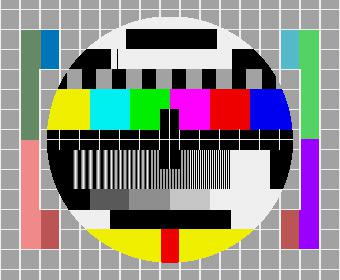
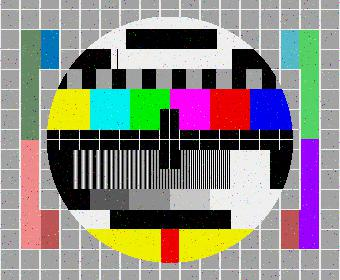
channel refactor and bug fixing

diff --git a/Message.py b/Message.py
@@ -5,7 +5,9 @@ import komm as komm
 test_image_file_name = "test_image.jpeg"
 saved_test_image = "save_image.jpeg"
 
+
 class Image_message:
+
     def __init__(self,file_name):
         """Load data from file and get size and pixel data (as 'image_bits')
         """
@@ -32,7 +34,7 @@ class Image_message:
         bits = np.array((self.image_bits))
         trippled_binary_image_bits = np.repeat(bits, 3)
         return trippled_binary_image_bits
-    
+    #TODO: Statystyki Potrajanie bitów metodą AAABBBCCC - zakodowana potrojona wiadomość 
 
     def bits_trippling_2(self):
         """Function which return trippled bits in order abcabcabc
@@ -40,7 +42,7 @@ class Image_message:
         bits = np.array((self.image_bits))
         trippled_bits = np.append(bits,[bits,bits])
         return trippled_bits
-
+    #TODO: Statystyki Potrajanie bitów metodą ABCABCABC - zakodowana potrojona wiadomość 
 
     def decode_trippled_bits(self, trippled_binary_array,order_char):
             """Function that decodes trippled bits
@@ -60,6 +62,7 @@ class Image_message:
                 else:
                     decoded_binary_image_bits[i] = third[i]
             return decoded_binary_image_bits
+     #TODO: Statystyki Potrajanie bitów metodą ABCABCABC i AAABBBCCC - w zaleności od parametru order stosowana jest dla danej metody, zwraca odkodowny ciąg bitów (dla AAABBBCCC order_char jest F, dla ABCABCABC order_char jest C)
 
     def calculate_zeros_addition_Hamming(self,parameter):
         bits = np.array(self.image_bits)
@@ -99,6 +102,7 @@ class Image_message:
             encoded_parts = np.array(encoded_parts)
 
             return encoded_parts
+    #TODO: Statystyki Hamming - zwraca wiadomość z nadmiarem informacyjnym i posiada dodatkowe zera na końcu (gdy długość nie jest podzelna przez długość potrzebną do zakodowania) 
 
         elif (len(bits)%code.dimension == 0):
             number_of_arrays = int(len(bits)/code.dimension)
@@ -111,7 +115,7 @@ class Image_message:
             encoded_parts = np.array(encoded_parts)
 
             return encoded_parts
-
+    #TODO: Statystyki Hamming - zwraca wiadomość z nadmiarem informacyjnym (bez dodatkowych zer bo iwadomość jest podzielna przez długość potrzebną do zakodowania)
 
     def hamming_decode(self,encoded_parts,parameter):
             """Decoding method for Hamming code
@@ -129,6 +133,7 @@ class Image_message:
                     decoded_parts = np.delete(decoded_parts,len(decoded_parts)-1)
             
             return decoded_parts
+        #TODO: Statystyki Hamming- odkodowana wiadomość i usunięte dodatkowe zera 
 
     def BCH_encode(self,parameter,correcting_capability):
         """ BCH code encoding method 
@@ -151,6 +156,7 @@ class Image_message:
             encoded_parts = np.array(encoded_parts)
 
             return encoded_parts
+        #TODO: Statystyki BCH - zwraca wiadomość z nadmiarem informacyjnym i posiada dodatkowe zera na końcu (gdy długość nie jest podzelna przez długość potrzebną do zakodowania) 
 
         elif (len(bits)%code.dimension == 0):
             number_of_arrays = int(len(bits)/code.dimension)
@@ -163,7 +169,8 @@ class Image_message:
             encoded_parts = np.array(encoded_parts)
 
             return encoded_parts
-    
+        #TODO: Statystyki BCH - zwraca wiadomość z nadmiarem informacyjnym (bez dodatkowych zer bo iwadomość jest podzielna przez długość potrzebną do zakodowania)
+
     def BCH_decode(self,encoded_parts,parameter,correcting_capability):
             """Decoding method for cyclic BCH code
             """
@@ -181,6 +188,8 @@ class Image_message:
             
             return decoded_parts
 
+        #TODO: Statystyki BCH- odkodowana wiadomość i usunięte dodatkowe zera 
+    
     def ParityCheck_encode(self,parameter):
         """ Single Parity Check encoding method 
         """
@@ -189,7 +198,6 @@ class Image_message:
         code = komm.SingleParityCheckCode(parameter)
         
         if (len(bits)%code.dimension > 0):
-            
             bits = np.append(bits, [np.zeros(self.calculate_zeros_addition_Single_Parity_Check(parameter),dtype = np.uint8)])
             number_of_arrays = int(len(bits)/code.dimension)
             parts_to_encode = np.reshape(bits,(number_of_arrays,-1),order ='C')
@@ -201,8 +209,9 @@ class Image_message:
             encoded_parts = np.array(encoded_parts)
 
             return encoded_parts
-
+        #TODO: Statystyki BCH - zwraca wiadomość z nadmiarem informacyjnym i posiada dodatkowe zera na końcu (gdy długość nie jest podzelna przez długość potrzebną do zakodowania) 
         elif (len(bits)%code.dimension == 0):
+           
             number_of_arrays = int(len(bits)/code.dimension)
             parts_to_encode = np.reshape(bits,(number_of_arrays,-1),order ='C')
 
@@ -213,6 +222,7 @@ class Image_message:
             encoded_parts = np.array(encoded_parts)
 
             return encoded_parts
+        #TODO: Statystyki ParityCheck - zwraca wiadomość z nadmiarem informacyjnym (bez dodatkowych zer bo wiadomość jest podzielna przez długość potrzebną do zakodowania)
 
     def ParityCheck_decode(self,encoded_parts,parameter):
             """Single Parity Check decoding method 
@@ -230,6 +240,8 @@ class Image_message:
                     decoded_parts = np.delete(decoded_parts,len(decoded_parts)-1)
             
             return decoded_parts
+     #TODO: Statystyki ParityCheck- odkodowana wiadomość i usunięte dodatkowe zera 
 
-    
-
+    def array_to_decode(self,number_of_arrays, array):
+        decode_array = np.reshape(array,(number_of_arrays,-1),order ='C')
+        return decode_array

diff --git a/Channel.py b/Channel.py
@@ -7,56 +7,56 @@ class Channel:
     def __init__(self, bits_array):
         self.bits = bits_array
 
-    def random_error(bits, intensity):          
+    def random_error(self,intensity):          
         """generating mistakes randomly, number of mistakes depends of intensity parametr - proprtional to length of message
         """
-        mistakes = len(bits)*intensity/100
-        return Channel.random_error_number(bits, mistakes)
+        mistakes = len(self.bits)*intensity/100
+        return Channel.random_error_number(self.bits, mistakes)
         
     
-    def random_error_number(bits, mistakes):     
+    def random_error_number(self, mistakes):     
         """generating mistakes randomly, number of mistakes given by "mistakes"
         """
-        index_array = np.arange(len(bits))
+        index_array = np.arange(len(self.bits))
         np.random.shuffle(index_array)
         mistakes_array = index_array[0:mistakes]
         for i in mistakes_array:
-            bits[i] = (bits[i]+1)%2
-        return bits
+            self.bits[i] = (self.bits[i]+1)%2
+        return self.bits
 
 
 #SECOND GROUP OF NOISE IN THIS GROUP MISTAKES HAPPEN EVERY COUPLE BITS 
-    def random_noise(bits, space):                                 
+    def random_noise(self,space):                                 
         """generating single mistake averge every "space" in channel
         """
-        while i < len(bits):
+        while i < len(self.bits):
             corect = group = random.gauss(space, 1)
-            bits[i] = (bits[i]+1)%2
+            self.bits[i] = (self.bits[i]+1)%2
             i = i + corect;
-        return bits
+        return self.bits
 
     
-    def group_noise(bits, space, averge_group_size):        
+    def group_noise(self,space, averge_group_size):        
         """generating group of mistakes averge every "space" in channel, size of group averge "averge_group_size"
         """
         group = random.gauss(averge_group_size, 1)
-        while i < len(bits):
+        while i < len(self.bits):
             corect = group = random.gauss(space, 1)
             for x in range(0, group):
-                bits[x] = (bits[x]+1)%2
+                self.bits[x] = (self.bits[x]+1)%2
             i = i + group + corect;
-        return bits
+        return self.bits
 
-    def group_noise_signal(bits, space, averge_group_size):      
+    def group_noise_signal(self,space, averge_group_size):      
         """generating group of signal 0/1 averge every "space" in channel, size of group averge "averge_group_size"
         """
         group = random.gauss(averge_group_size, 1)
-        while i < len(bits):
+        while i < len(self.bits):
             corect = group = random.gauss(space, 1)
             signal = random.randint(0, 1)
             for x in range(0, group):
-                bits[x] = signal
+                self.bits[x] = signal
             i = i + group + corect;
-        return bits
+        return self.bits
 
 

diff --git a/main.py b/main.py
@@ -1,5 +1,6 @@
 from Channel import Channel
 from Message import Image_message
+import numpy as np
 import komm as komm
 
 
@@ -8,15 +9,28 @@ saved_test_image = "save_image.jpeg"
 
 def main():
     image = Image_message(test_image_file_name)
-    encoded_message = image.ParityCheck_encode(5)
 
-    # channel = Channel(encoded_message)
-    # encoded_message_with_errors = channel.random_error_number(100)
+    # encoded_message = image.bits_trippling_1() # bits trippling
+    # encoded_message = image.bits_trippling_2() # bits trippling
 
-    decoded_message = image.ParityCheck_decode(encoded_message,5)
+    encoded_message = image.hamming_encode(10)
+    # encoded_message = image.BCH_encode(10,2)
+    # encoded_message = image.ParityCheck_encode(10)
+    number_of_arrays = len(encoded_message)
+    concated = np.concatenate(encoded_message)
+    
+    # channel = Channel(encoded_message) # bits trippling
+    channel = Channel(concated)
+    encoded_message_with_errors = channel.random_error_number(10000) 
+    encoded_meassage_with_error_to_decode = image.array_to_decode(number_of_arrays,encoded_message_with_errors)
+
+    # decoded_message = image.decode_trippled_bits(encoded_message_with_errors,'F') # bits trippling decode AAABBBCCC
+    # decoded_message = image.decode_trippled_bits(encoded_message_with_errors,'C') # bits trippling decode ABCABCABC 
+    decoded_message = image.hamming_decode(encoded_meassage_with_error_to_decode,10)
+    # decoded_message = image.BCH_decode(encoded_meassage_with_error_to_decode,10,2)
+    # decoded_message = image.ParityCheck_decode(encoded_meassage_with_error_to_decode,10)
     image.image_bits = decoded_message
 
     image.save(saved_test_image)
     
-  
 main()
